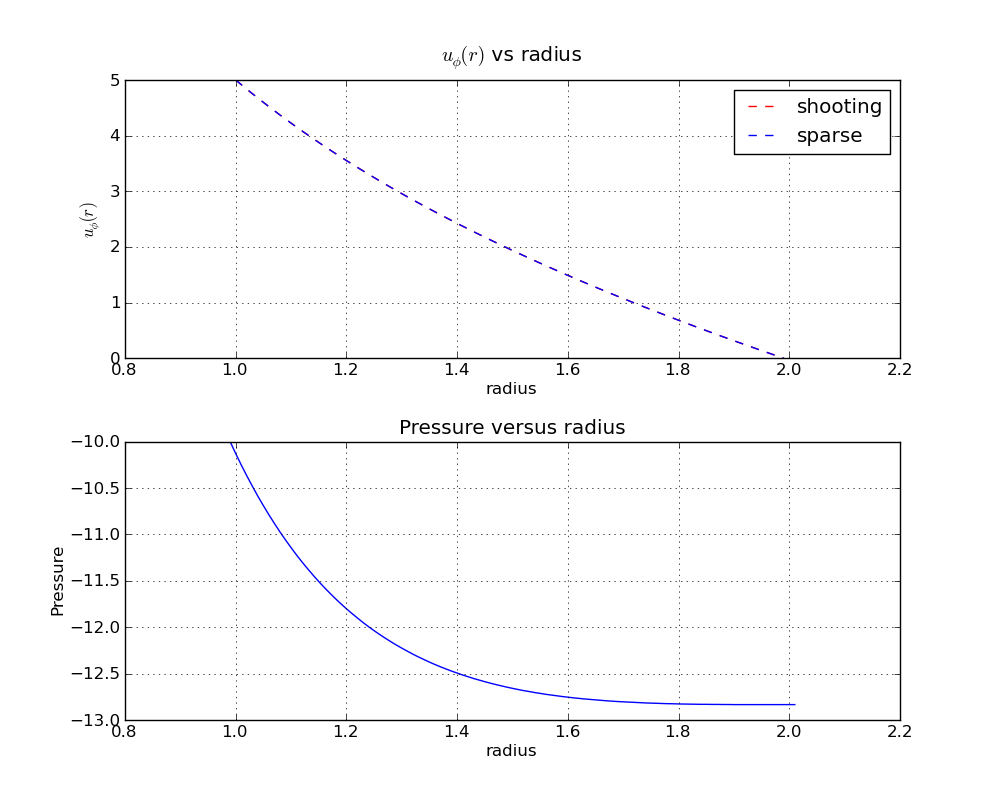
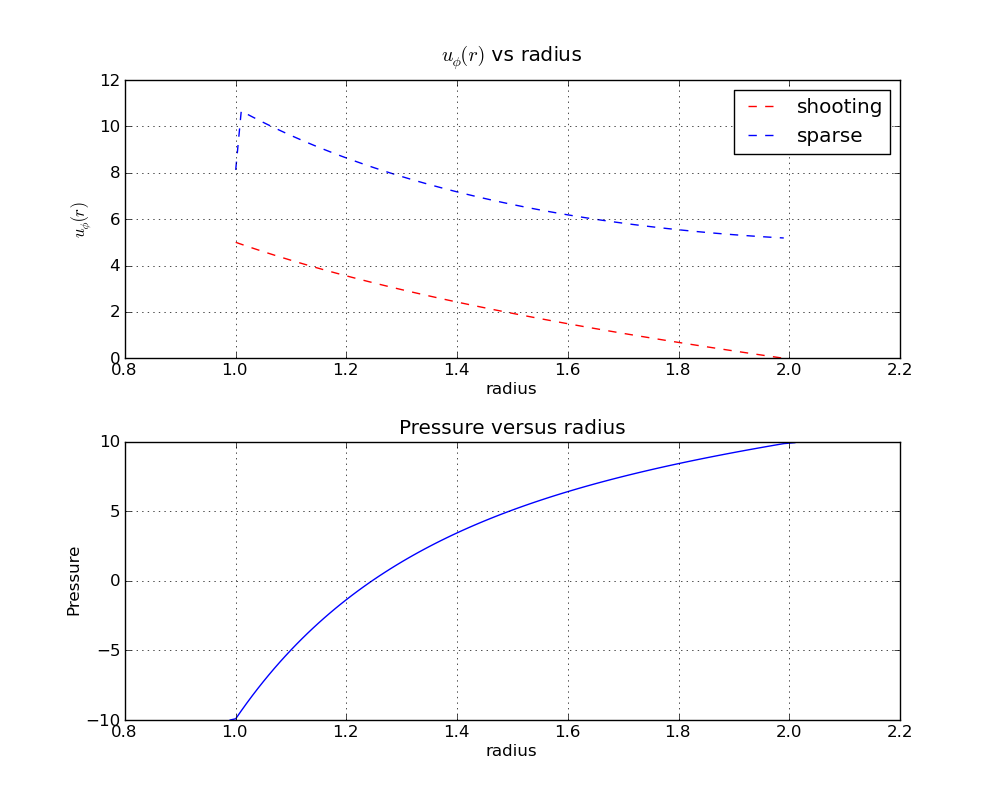
checking second derivatives

diff --git a/poisson1d.c b/poisson1d.c
@@ -38,6 +38,17 @@ void open_file(){
     
 }
 
+double delta_r(int position){
+    double value;
+    if(position==1){     //reflecting boundary
+        value = (2.0*d1uphi[position])/(grid_spacing[0]);
+    }else if(position==(P_size)){        //reflecting boundary everywhere
+        value = (-2.0*d1uphi[position-2])/(grid_spacing[0]); 
+    }else{
+        value = (d1uphi[position] - d1uphi[position-2])/(grid_spacing[0]); 
+    }
+    return value;
+}
 
 void fill_source(){
     int i;
@@ -51,7 +62,7 @@ void fill_source(){
             //source[i] = 0.0;
             source[i] = Pouter;
         }else{
-            source[i] = Re*d1uphi[i-1]*d1uphi[i-1]/radius[i];
+            source[i] = Re*d1uphi[i-1]*delta_r(i)/radius[i];
         }
         //printf("source[%d] = %f, radius = %f \n ", i, source[i], radius[i]);
 
@@ -85,10 +96,12 @@ void sparse(){
     
     
     for (i=0; i<M; i++) {
-        double a, e;
-        
-        a = 1.0/grid_spacing[0];
-        e = -a;
+        double a, c, e;
+        double deltar2 = 1.0/(grid_spacing[0]*grid_spacing[0]);
+        double deltar_r = 1.0/(radius[i]*grid_spacing[0]);
+        a = deltar2 - deltar_r;
+        c = -2.0*deltar2;
+        e = deltar2 + deltar_r;
         
         
         if(i==0){
@@ -97,6 +110,7 @@ void sparse(){
             cs_entry(triplet, i, i, 1.0);
         }else{
             cs_entry(triplet, i, i-1, a);
+            cs_entry(triplet, i, i, c);
             cs_entry(triplet, i, i+1, e);
         }
         
